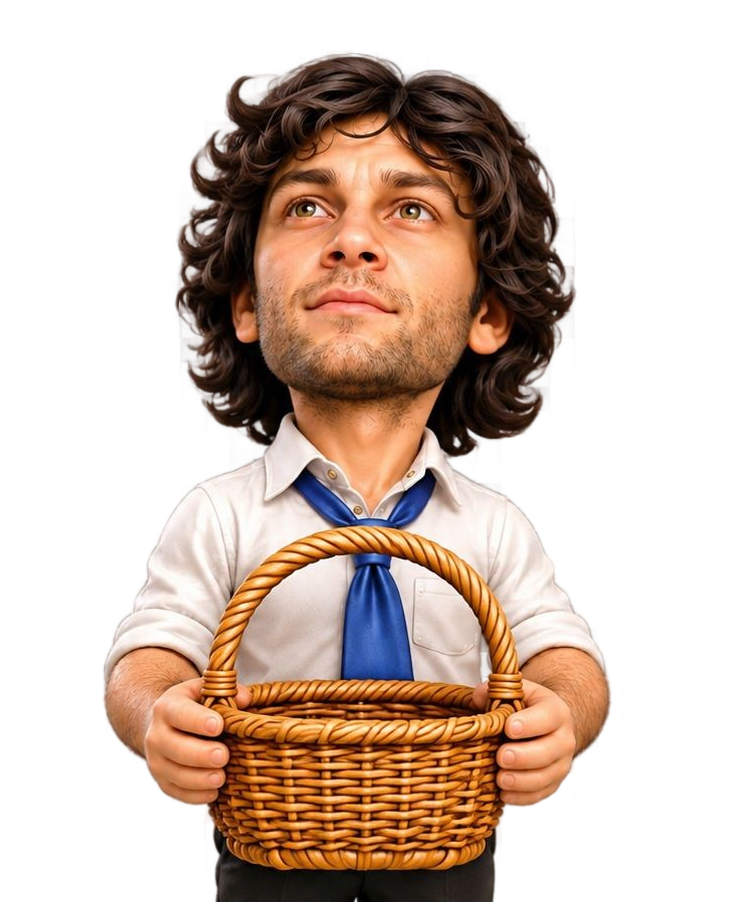
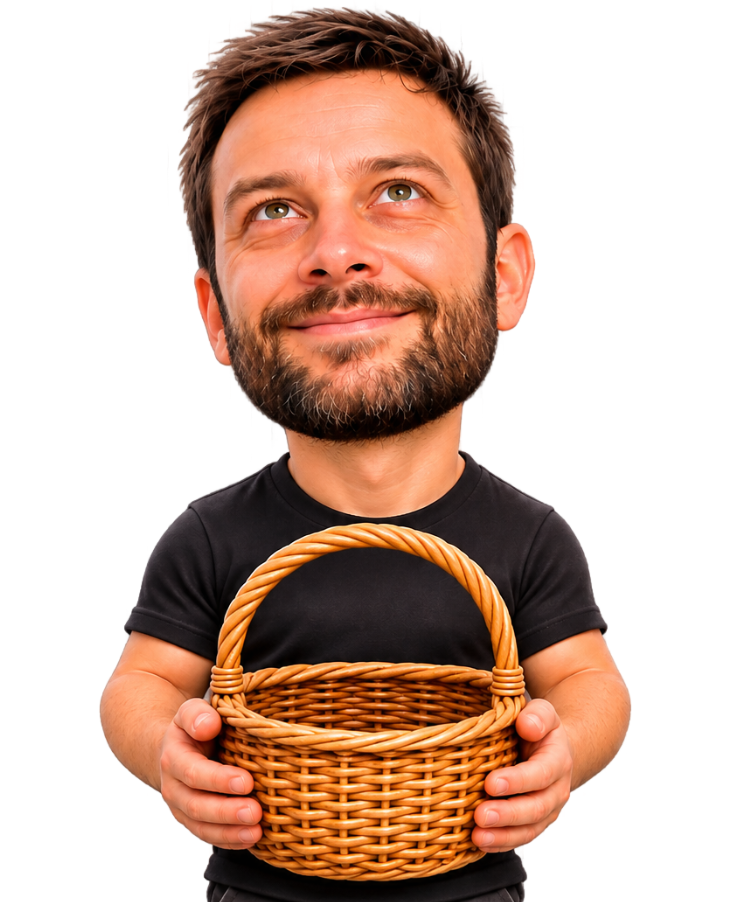
1.1

diff --git a/index.html b/index.html
@@ -48,6 +48,20 @@
       75% { transform: scale(1); opacity: 1; }
       100% { opacity: 0; transform: scale(1.1) translateY(-30px); }
     }
+
+    .character-select {
+      display: flex; gap: 20px; margin: 20px 0; flex-wrap: wrap; justify-content: center;
+    }
+    .character-btn {
+      width: 120px; height: 140px; border: 4px solid #444; border-radius: 15px;
+      background: rgba(255,255,255,0.1); cursor: pointer; transition: all 0.3s;
+      display: flex; flex-direction: column; align-items: center; justify-content: center;
+      padding: 10px;
+    }
+    .character-btn:hover { border-color: #FFD166; transform: scale(1.05); }
+    .character-btn.selected { border-color: #4CAF50; background: rgba(76, 175, 80, 0.2); }
+    .character-btn img { width: 80px; height: 80px; object-fit: contain; }
+    .character-btn.disabled { opacity: 0.3; pointer-events: none; }
   </style>
 </head>
 <body>
@@ -64,12 +78,41 @@
     const wrapper = document.getElementById('gameWrapper');
     const msgBox = document.getElementById('motivation-box');
 
-    // 🧺 CESTAS (MAX Y SAM)
-    const cestaImg = new Image(); cestaImg.src = 'max_cesta.png';
-    let cestaLoaded = false; cestaImg.onload = () => cestaLoaded = true;
+    // 🧺 CESTAS (MAX, SAM, MAMÁ)
+    const characterImages = {
+      max: new Image(),
+      sam: new Image(),
+      mama: new Image()
+    };
+    characterImages.max.src = 'max_cesta.png';
+    characterImages.sam.src = 'sam_cesta.png';
+    characterImages.mama.src = 'mama_cesta.png';
     
-    const samImg = new Image(); samImg.src = 'sam_cesta.png'; // ✅ SEGUNDO JUGADOR
-    let samLoaded = false; samImg.onload = () => samLoaded = true;
+    let charactersLoaded = { max: false, sam: false, mama: false };
+    
+    // ✅ FUNCIÓN PARA CALCULAR DIMENSIONES MANTENIENDO PROPORCIÓN
+    function calculateBasketDimensions() {
+      // Usamos la primera imagen cargada como referencia (731x902)
+      // Proporción: 731/902 ≈ 0.81
+      const targetHeight = 105; // Altura objetivo
+      const aspectRatio = 731 / 902; // Proporción original
+      
+      // Calculamos el ancho manteniendo la proporción
+      const calculatedWidth = Math.round(targetHeight * aspectRatio);
+      
+      // Actualizamos las variables globales
+      window.BASE_BASKET_W = calculatedWidth;
+      window.BASE_BASKET_H = targetHeight;
+      
+      console.log(`Dimensiones ajustadas: ${calculatedWidth}x${targetHeight} (proporción ${aspectRatio.toFixed(2)})`);
+    }
+    
+    characterImages.max.onload = () => { 
+      charactersLoaded.max = true; 
+      calculateBasketDimensions();
+    };
+    characterImages.sam.onload = () => charactersLoaded.sam = true;
+    characterImages.mama.onload = () => charactersLoaded.mama = true;
 
     // 🖼 PORTADA (OPCIONAL)
     const portadaImg = new Image(); portadaImg.src = 'portada.png';
@@ -150,8 +193,10 @@
 
     // ⚙ CONFIGURACIÓN JUEGO
     let gameMode = '1p', p1Name = 'Jugador 1', p2Name = 'Jugador 2';
+    let player1Character = 'max';
+    let player2Character = 'sam';
     let basket1X, basket2X;
-    let basketW = 95, basketH = 105;
+    let basketW = 85, basketH = 105; // ✅ Dimensiones ajustadas (85x105 para proporción 731:902)
     const basketOffX = 0, basketOffY = -80;
     let score1 = 0, score2 = 0, sharedScore = 0;
     let lives1 = 5, lives2 = 5, sharedLives = 5;
@@ -169,7 +214,7 @@
     let sizeBoostActive = false;
     let sizeBoostTimer = 0;
     const SIZE_BOOST_DURATION = 480;
-    const BASE_BASKET_W = 95, BASE_BASKET_H = 105;
+    const BASE_BASKET_W = 85, BASE_BASKET_H = 105; // ✅ Ajustado
 
     // 💬 FRASES MOTIVACIONALES
     const phrases = ["¡Genial!", "¡Sigue así!", "¡Imparable!", "¡Brutal!", "¡Qué reflejos!", "¡A por todas!", "¡Tú puedes!", "¡No pares!", "¡Eres un PRO!", "¡Modo Roblox!"];
@@ -234,8 +279,54 @@
     window.showNameInput = function(mode) {
       playSound('click'); gameMode = mode; gameState = 'nameInput';
       const is2p = mode.includes('2p');
-      ui.innerHTML = `<h1>👥 Nombres</h1><div class="input-group"><label>Nombre Jugador 1</label><input type="text" id="name1" value="${p1Name}" maxlength="10"></div>${is2p ? `<div class="input-group"><label>Nombre Jugador 2</label><input type="text" id="name2" value="${p2Name}" maxlength="10"></div>` : ''}<button class="btn btn-start" id="startGameBtn">¡EMPEZAR!</button><p style="color:#FFD166; margin-top:12px; font-size:0.95em; font-weight:bold;">🎯 Atrapa ${targetPerLevel} objetos para pasar de nivel</p>`;
-      document.getElementById('startGameBtn').onclick = () => { p1Name = document.getElementById('name1').value.trim() || 'Jugador 1'; if(is2p) p2Name = document.getElementById('name2').value.trim() || 'Jugador 2'; playSound('click'); startGame(); };
+      
+      if(is2p) {
+        ui.innerHTML = `<h1>👥 Nombres</h1><div class="input-group"><label>Nombre Jugador 1</label><input type="text" id="name1" value="${p1Name}" maxlength="10"></div><div class="input-group"><label>Nombre Jugador 2</label><input type="text" id="name2" value="${p2Name}" maxlength="10"></div><button class="btn btn-start" id="nextBtn">Siguiente ▶</button>`;
+        document.getElementById('nextBtn').onclick = () => {
+          p1Name = document.getElementById('name1').value.trim() || 'Jugador 1';
+          p2Name = document.getElementById('name2').value.trim() || 'Jugador 2';
+          playSound('click');
+          showCharacterSelect(1);
+        };
+      } else {
+        p1Name = 'Jugador 1';
+        player1Character = 'max';
+        playSound('click');
+        startGame();
+      }
+    };
+
+    function showCharacterSelect(playerNum) {
+      gameState = 'characterSelect';
+      const availableChars = ['max', 'sam', 'mama'];
+      
+      if(playerNum === 2) {
+        const idx = availableChars.indexOf(player1Character);
+        if(idx > -1) availableChars.splice(idx, 1);
+      }
+      
+      let charButtons = '';
+      availableChars.forEach(char => {
+        charButtons += `<div class="character-btn" onclick="selectCharacter('${char}', ${playerNum})">
+          <img src="${characterImages[char].src}" alt="${char}">
+        </div>`;
+      });
+      
+      ui.innerHTML = `
+        <h2>${playerNum === 1 ? '👤 Jugador 1' : '👤 Jugador 2'}, elige tu personaje</h2>
+        <div class="character-select">${charButtons}</div>
+      `;
+    }
+
+    window.selectCharacter = function(char, playerNum) {
+      playSound('click');
+      if(playerNum === 1) {
+        player1Character = char;
+        showCharacterSelect(2);
+      } else {
+        player2Character = char;
+        startGame();
+      }
     };
 
     function startGame() {
@@ -306,7 +397,13 @@
         if(gameMode!=='1p' && p.y>=b2.c-p.r && p.y<=b2.c+basketH/2 && p.x>b2.l && p.x<b2.r) caught = true;
         if(caught) {
           if(p.type === 'magnet') { magnetActive = true; magnetTimer = MAGNET_DURATION; playSound('levelup'); }
-          else if(p.type === 'size') { basketW = BASE_BASKET_W * 1.2; basketH = BASE_BASKET_H * 1.2; sizeBoostActive = true; sizeBoostTimer = SIZE_BOOST_DURATION; playSound('levelup'); }
+          else if(p.type === 'size') { 
+            basketW = BASE_BASKET_W * 1.2; 
+            basketH = BASE_BASKET_H * 1.2; 
+            sizeBoostActive = true; 
+            sizeBoostTimer = SIZE_BOOST_DURATION; 
+            playSound('levelup'); 
+          }
           fallingPowerups.splice(i,1); continue;
         }
         if(p.y > basketVisualTop+basketH+20) fallingPowerups.splice(i,1);
@@ -317,7 +414,7 @@
         if(e.y>=b1.c-e.r && e.y<=b1.c+basketH/2) {
           if(gameMode==='1p' && e.x>b1.l && e.x<b1.r) { sharedScore++; caught=true; }
           else if(gameMode==='2p-coop' && ((e.x>b1.l&&e.x<b1.r)||(e.x>b2.l&&e.x<b2.r))) { sharedScore++; caught=true; }
-          else if(gameMode==='2p-vs' && ((e.side===1&&e.x>b1.l&&e.x<b1.r)||(e.side===2&&e.x>b2.l&&e.x<b2.r))) { if(e.side===1) score1++; else score2++; caught=true; }
+          else if(gameMode==='2p-vs' && ((e.side===1&&e.x>b1.l&&e.x<b1.r)||(e.side===2&&e.x>b2.l&&e.x>b2.r))) { if(e.side===1) score1++; else score2++; caught=true; }
         }
         if(caught) {
           playSound('catch'); collectedInLevel++; items.splice(i,1); spawnParticles(e.x, e.y, 8, '#FFD166'); spawnFloatingText(e.x, e.y-20, "+1", "#FFFFFF");
@@ -345,7 +442,14 @@
     }
     window.handleSaveScore = function() { const name = document.getElementById('playerNameInput').value.trim() || 'Anónimo'; addRecord(name, sharedScore); document.getElementById('inputSection').classList.add('hidden'); document.getElementById('leaderboardSection').classList.remove('hidden'); renderLeaderboard(); };
 
-    function drawBasket(x, y, imgRef) { if(imgRef && imgRef.complete) ctx.drawImage(imgRef, x-basketW/2+basketOffX, y+basketOffY, basketW, basketH); else { ctx.fillStyle='#D4A373'; ctx.fillRect(x-basketW/2, y-basketH/2, basketW, basketH); } }
+    function drawBasket(x, y, imgRef) { 
+      if(imgRef && imgRef.complete) {
+        ctx.drawImage(imgRef, x-basketW/2+basketOffX, y+basketOffY, basketW, basketH); 
+      } else { 
+        ctx.fillStyle='#D4A373'; 
+        ctx.fillRect(x-basketW/2, y-basketH/2, basketW, basketH); 
+      } 
+    }
 
     function draw(time = 0) {
       if(gameState === 'gameOver') return;
@@ -360,12 +464,11 @@
       if(gameMode!=='1p' && gameState!=='gameOver') { ctx.strokeStyle='rgba(255,255,255,0.4)'; ctx.lineWidth=3; ctx.setLineDash([8,6]); ctx.beginPath(); ctx.moveTo(canvas.width/2,0); ctx.lineTo(canvas.width/2,canvas.height-180); ctx.stroke(); ctx.setLineDash([]); }
       
       const bY = canvas.height-180;
-      // ✅ DIBUJO DE CESTAS: MAX para J1, SAM para J2
       if(gameMode==='1p') {
-        drawBasket(basket1X, bY, cestaImg);
+        drawBasket(basket1X, bY, characterImages.max);
       } else {
-        drawBasket(basket1X, bY, cestaImg);  // Jugador 1: MAX
-        drawBasket(basket2X, bY, samImg);    // Jugador 2: SAM
+        drawBasket(basket1X, bY, characterImages[player1Character]);
+        drawBasket(basket2X, bY, characterImages[player2Character]);
       }
       
       ctx.font='40px serif'; ctx.textAlign='center'; ctx.textBaseline='middle';
